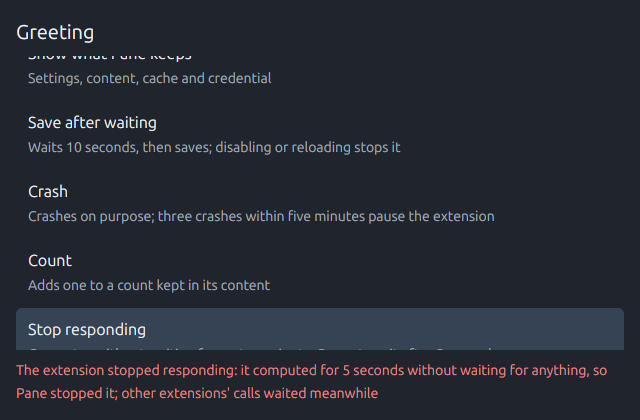
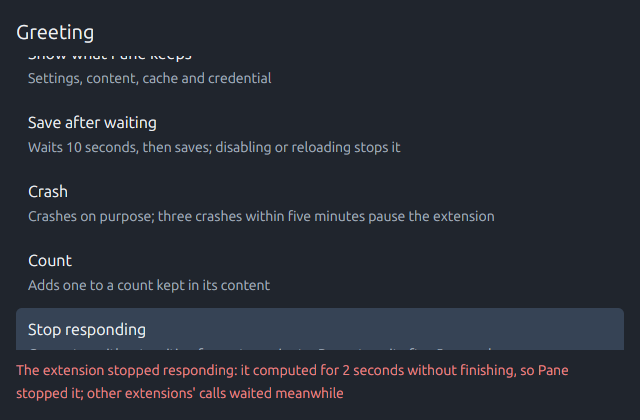
Record the Linux frames of the reviewed unresponsive phase (#18 review)

Changed region(s): [[0.0, 0.9286, 0.5938, 0.9595], [0.7188, 0.8667, 0.9688, 0.8976], [0.5312, 0.8667, 0.5625, 0.8976]]

diff --git a/docs/platforms/linux.md b/docs/platforms/linux.md
@@ -603,17 +603,18 @@ yet, then answers that it stopped responding once Pane gave up on it,
 Manage extensions' first row opens the runtime's details, and after
 `release` a fresh thread saves the formal greeting; `installed.json`
 records no pause. Run locally
-on 2026-09-29 (Ubuntu 26.04.1 LTS, kernel 7.0.0-31-generic, x86_64, same
-Xvfb/lavapipe setup): all checks of the whole smoke passed, and frames 240
-to 247 were looked at.
+on 2026-09-29 after the #18 review (Ubuntu 26.04.1 LTS, kernel
+7.0.0-31-generic, x86_64, same Xvfb/lavapipe setup): all checks of the
+whole smoke passed, and frames 240 to 248 were looked at.
 
 | Step | Evidence |
 | --- | --- |
-| The second run: "The extension stopped responding: it computed for 5 seconds without waiting for anything, so Pane stopped it; other extensions' calls waited meanwhile" | [241-unresponsive-stopped.png](evidence/linux-x11/241-unresponsive-stopped.png) |
+| The second run: "The extension stopped responding: it computed for 2 seconds without finishing, so Pane stopped it; other extensions' calls waited meanwhile" | [241-unresponsive-stopped.png](evidence/linux-x11/241-unresponsive-stopped.png) |
 | The third: "Settings sample stopped responding 3 times within 5 minutes and is paused …", Greeting listed with why | [242-unresponsive-paused.png](evidence/linux-x11/242-unresponsive-paused.png) |
-| The runtime thread made to hang: "Extension runtime unavailable: it stopped responding before answering and was started again; Pane does not run this again by itself" | [245-unresponsive-runtime.png](evidence/linux-x11/245-unresponsive-runtime.png) |
-| The runtime's details: stopped responding for 10 seconds, none named or paused, the stuck thread abandoned, what it was doing | [246-unresponsive-runtime-details.png](evidence/linux-x11/246-unresponsive-runtime-details.png) |
-| A fresh thread: "Saved the formal greeting" | [247-unresponsive-runs-again.png](evidence/linux-x11/247-unresponsive-runs-again.png) |
+| The runtime thread made to hang, first: "Pane's extension runtime is not responding yet. Pane starts it again if it stays stuck; saved data is kept." | [245-unresponsive-not-yet.png](evidence/linux-x11/245-unresponsive-not-yet.png) |
+| Then given up on: "Extension runtime unavailable: it stopped responding before answering and was started again; Pane does not run this again by itself" | [246-unresponsive-runtime.png](evidence/linux-x11/246-unresponsive-runtime.png) |
+| The runtime's details: no progress for 15 seconds, not in an extension's code nor a host call, which code held it not known, none named or paused, the stuck thread abandoned, its last known work | [247-unresponsive-runtime-details.png](evidence/linux-x11/247-unresponsive-runtime-details.png) |
+| A fresh thread: "Saved the formal greeting" | [248-unresponsive-runs-again.png](evidence/linux-x11/248-unresponsive-runs-again.png) |
 
 Frames 240 (the extension list while the guest computes), 243 (the pause
 details) and 244 ("Started Settings sample" on the extension list) are
